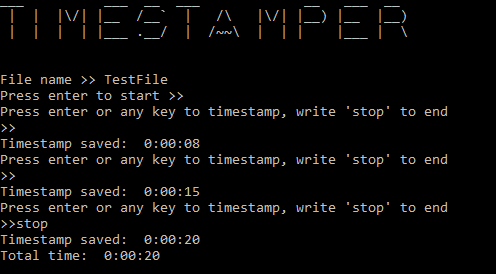
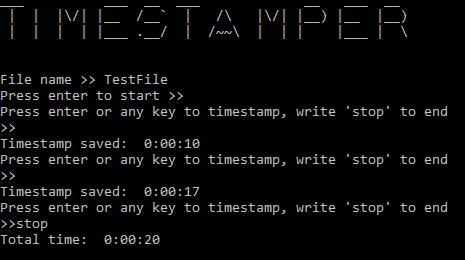
Fixed saving of the last timestamp and updated screenshots

diff --git a/TimeStamper.py b/TimeStamper.py
@@ -32,7 +32,7 @@ while (ctrlString != 'stop' and ctrlString != 'Stop' and ctrlString != 'STOP'):
     print('Press enter or any key to timestamp, write \'stop\' to end')
     ctrlString = input('>>')
 
-    if (ctrlString != 'stop' or ctrlString != 'Stop' or ctrlString != 'STOP'):
+    if (ctrlString != 'stop' and ctrlString != 'Stop' and ctrlString != 'STOP'):
 
         timeLap = time.time()
         lap = timeLap - timeStart
